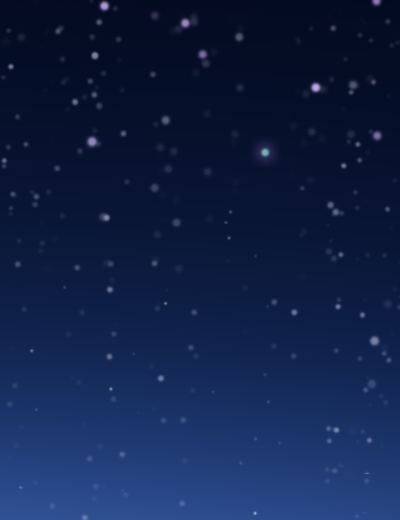
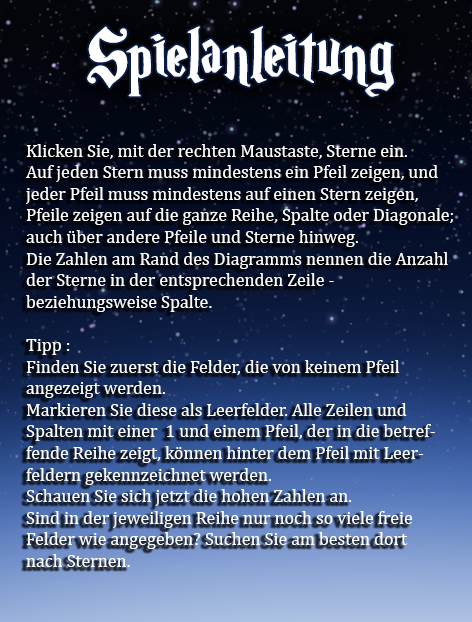
info and instruction backgroundpicture & size change

diff --git a/src/gui/InfoDialog.java b/src/gui/InfoDialog.java
@@ -9,43 +9,43 @@ import javax.swing.JLabel;
 
 /**
  * 
- * @author Eren, Fabian
+ * @author Eren, Fabian, Mats
  * @version 0.1
  *
  */
 
 public class InfoDialog {
-	
+
 	JFrame frame;
-	JLabel label;
+	//	JLabel label;
 	JLabel backGroundImage;
-	
-	 public InfoDialog() {
-	        frame = new JFrame ("Sternenpuzzle - Info");
-	        label = new JLabel ("");
-	        label.setHorizontalAlignment(JLabel.CENTER);
-	        label.setVerticalAlignment(JLabel.TOP);
-	        label.setForeground(Color.white);
-	        label.setText("<html><p/><p/>Entwickler: <p/><p/> "+                  
-	                   "Fabian Hassert <p/>" +
-	                   "Eren Arslan <p/>" +
-	                   "Mats Bulin <p/>" +
-	                   "Daniel Frings <p/>" +
-	                   "Anatoly Steinhauer <p/>" +
-	                   "Andreas Amberg <p/> <p/>" +
-	                   "Auftraggeber: Games4Ever <p/> <p/>" +
-	                   "Version: 0.1 <p/> <p/>" +
-	                   "Datum: 25.10.2012 </html>");	        
-	        frame.add(label);
-	        frame.setSize(200, 300);
-	        frame.setVisible(true);
-	        frame.setResizable(false);
-	        frame.setLocationRelativeTo(null);
-	        
-	        backGroundImage = new JLabel(new ImageIcon(getClass().getResource("/resources/infoBackground.png")));
-	        backGroundImage.setLayout(null);
-	        backGroundImage.setOpaque(false);
-	        frame.getContentPane().add(backGroundImage);
-	        backGroundImage.setBounds(0,0,200,300);
-	    }
+
+	public InfoDialog() {
+		frame = new JFrame ("Sternenpuzzle - Info");
+		//	        label = new JLabel ("");
+		//	        label.setHorizontalAlignment(JLabel.CENTER);
+		//	        label.setVerticalAlignment(JLabel.TOP);
+		//	        label.setForeground(Color.white);
+		//	        label.setText("<html><p/><p/>Entwickler: <p/><p/> "+                  
+		//	                   "Fabian Hassert <p/>" +
+		//	                   "Eren Arslan <p/>" +
+		//	                   "Mats Bulin <p/>" +
+		//	                   "Daniel Frings <p/>" +
+		//	                   "Anatoly Steinhauer <p/>" +
+		//	                   "Andreas Amberg <p/> <p/>" +
+		//	                   "Auftraggeber: Games4Ever <p/> <p/>" +
+		//	                   "Version: 0.1 <p/> <p/>" +
+		//	                   "Datum: 25.10.2012 </html>");	        
+		//	        frame.add(label);
+		frame.setSize(400, 520);
+		frame.setVisible(true);
+		frame.setResizable(false);
+		frame.setLocationRelativeTo(null);
+
+		backGroundImage = new JLabel(new ImageIcon(getClass().getResource("/resources/infoBackground.png")));
+		backGroundImage.setLayout(null);
+		backGroundImage.setOpaque(false);
+		frame.getContentPane().add(backGroundImage);
+		backGroundImage.setBounds(0,0,400, 520);
+	}
 }
